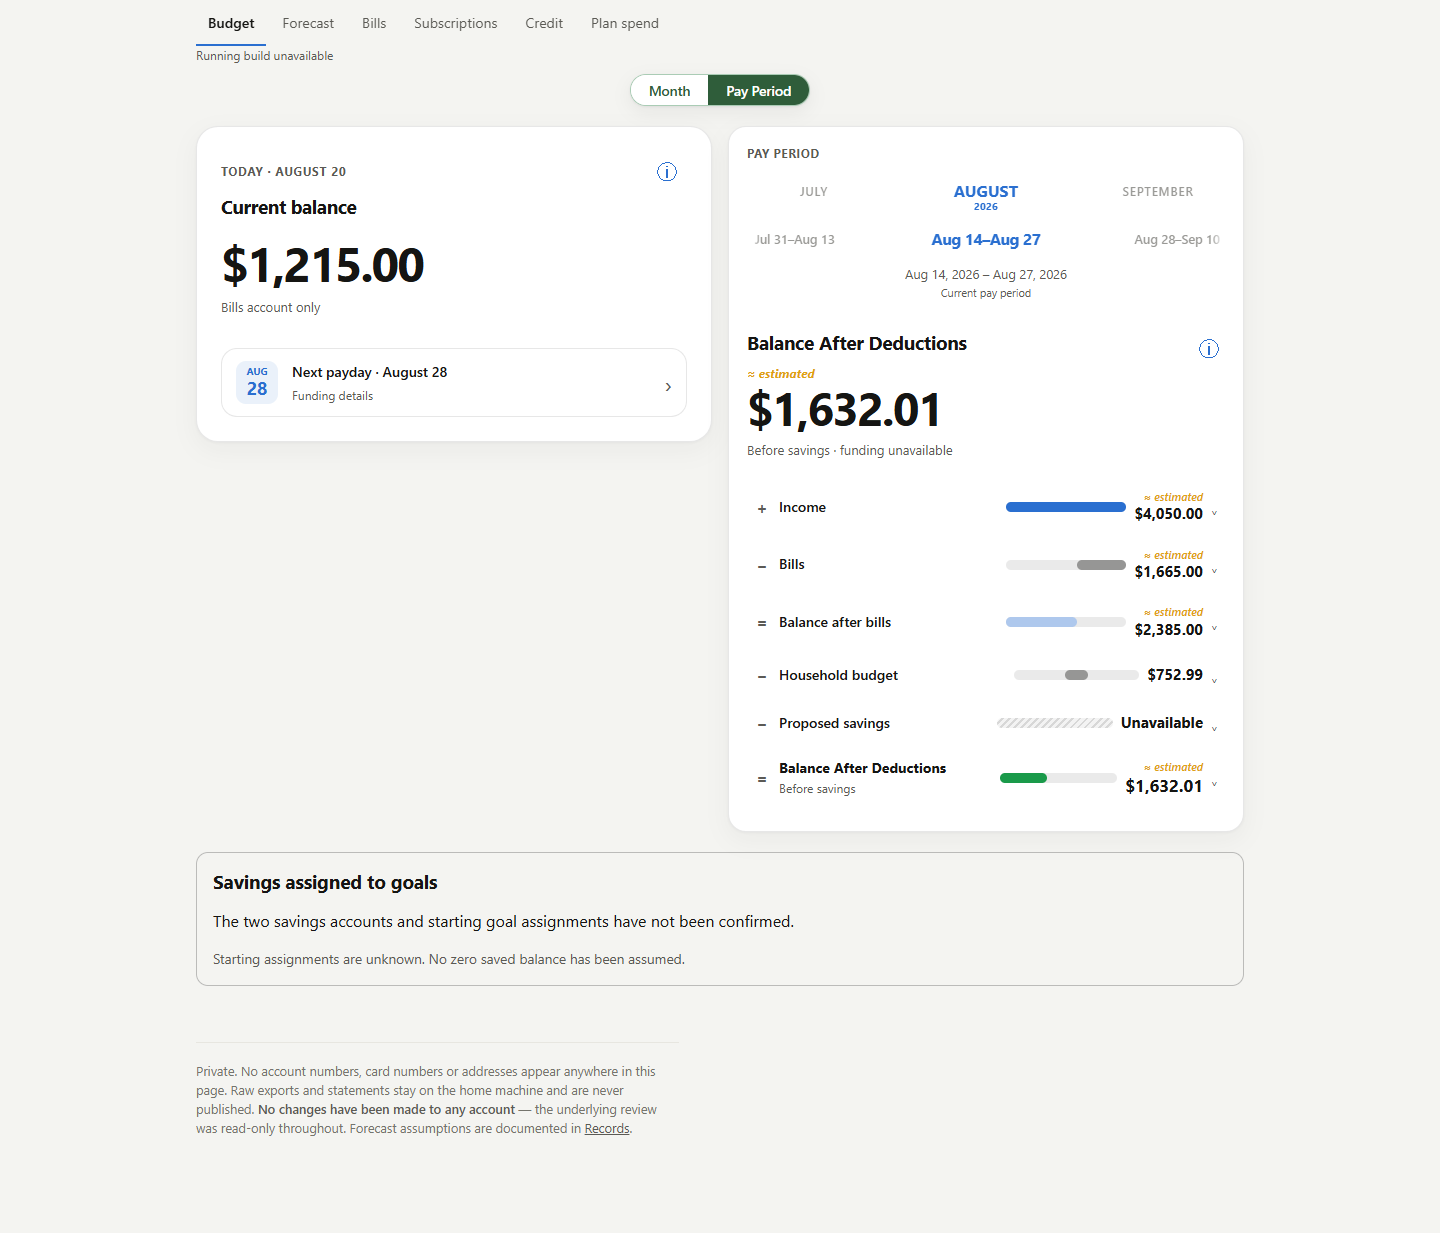
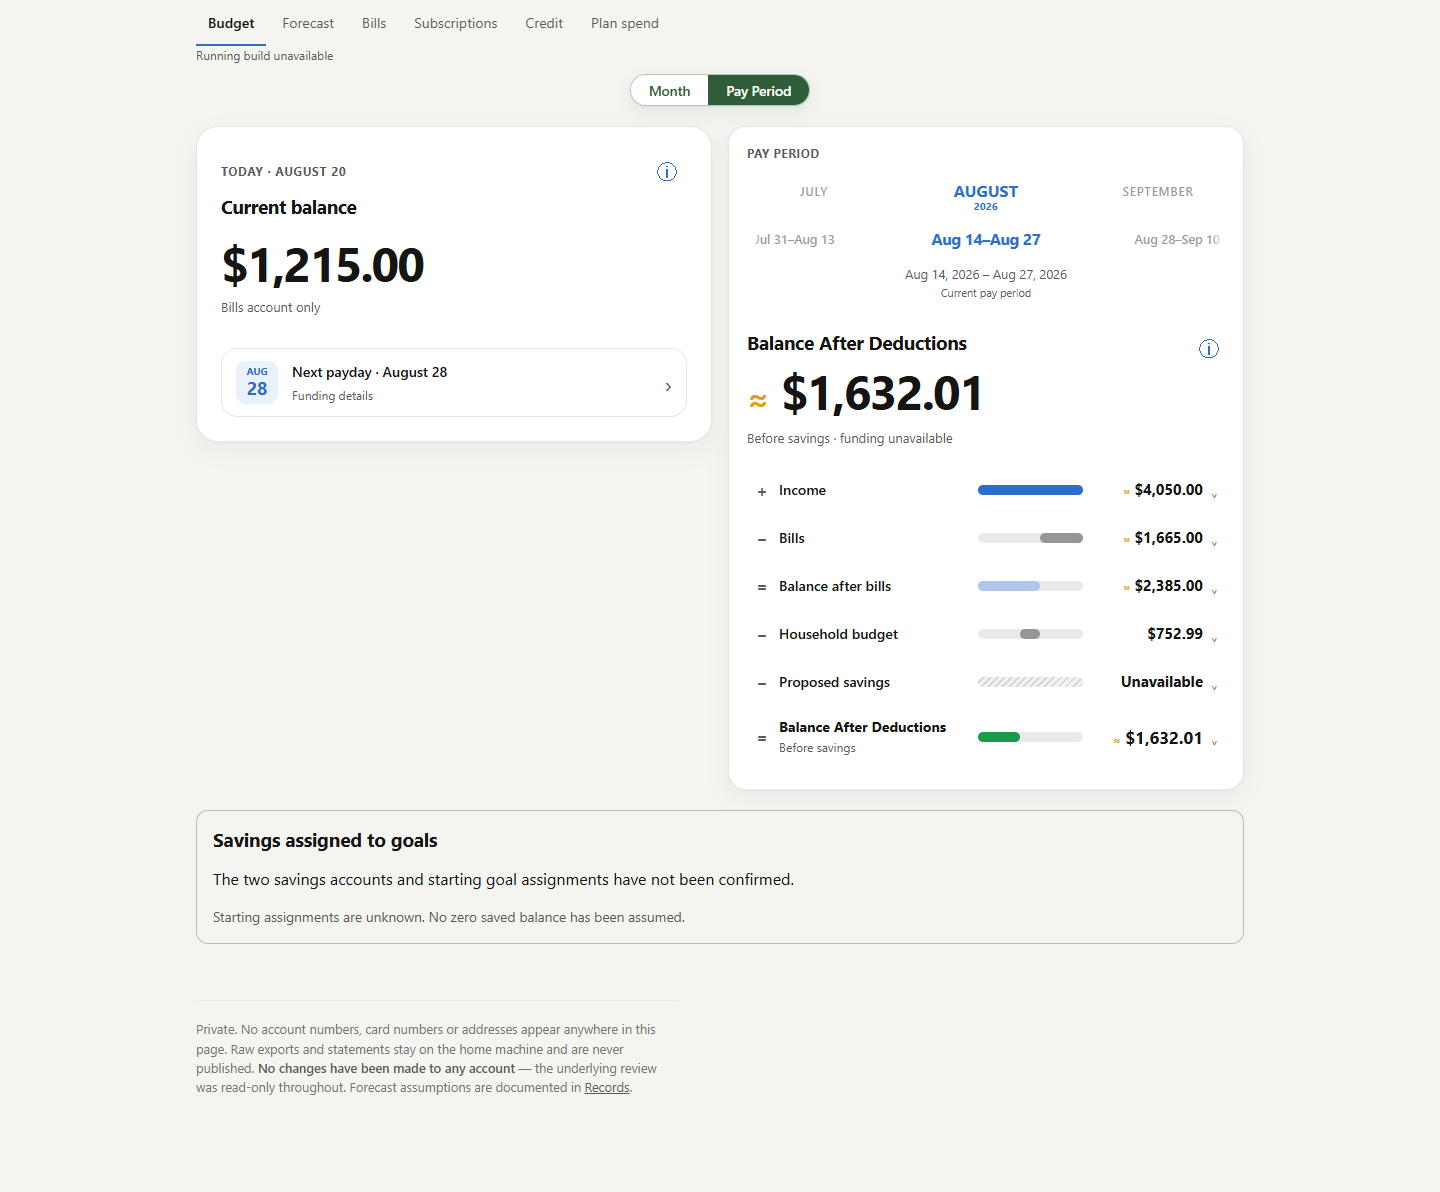
Preserve protection scope and verify compact Budget across narrow and missing states

diff --git a/public/plan.js b/public/plan.js
@@ -5296,6 +5296,11 @@ function budgetTodayCashCardHtml(ctx) {
     <span><strong>${nextDate > asOf ? 'Next payday' : 'Payday plan'} · ${escape(fmtDateLong(nextDate))}</strong><small>Funding details</small></span><span aria-hidden="true">›</span>
   </button>` : '';
   const evidenceOpen = paydayDisclosuresOpen.has('today-evidence');
+  // Incumbent Prepare Ahead publication: this is current protection left
+  // after obligations/essentials, not a newly calculated period carryover.
+  const protection = alloc.protectedPath;
+  const protectionKnown = protection?.status === 'calculated' && strict(protection.allocated) && protection.allocated >= 0;
+  const keep = `<div class="budget-cash-keep" data-budget-cash-keep><span>Keep for later</span><strong>${print(protectionKnown ? protection.allocated : null, protectionKnown ? 'calculated' : 'unavailable')}</strong><small>After bills &amp; essentials · across chequing</small></div>`;
   return `<div class="budget-today-cash" data-budget-today-cash data-live-current-balance>
     <header><p class="budget-cash-eyebrow">Today${asOf ? ' · ' + escape(fmtDateLong(asOf)) : ''}</p>
       <button type="button" class="budget-cash-how" data-budget-cash-how aria-controls="budget-today-evidence" aria-expanded="${evidenceOpen}"><span aria-hidden="true">ⓘ</span><span class="budget-cash-sr">Current balance and funding details</span></button><h2>Current balance</h2></header>
@@ -5305,6 +5310,8 @@ function budgetTodayCashCardHtml(ctx) {
     <section class="budget-today-evidence" id="budget-today-evidence" data-budget-today-evidence aria-label="Current balance and funding evidence"${evidenceOpen ? '' : ' hidden'}>
       <button type="button" class="budget-cash-back" data-budget-cash-back>‹ Back to overview</button>
       <div class="budget-cash-plan" data-budget-cash-detail><h3>Cash needed${today?.currentThrough ? " through " + escape(fmtDate(today.currentThrough)) : ""}</h3><p class="budget-cash-plan-scope">Across chequing accounts</p>${chart}${legend}${ready ? status : ""}</div>
+      ${keep}
+      <p>This is the current allocation's future cash protection after bills and essential spending. It is not a Bills-account-only balance or the selected period's required carryover.</p>
       ${publication?.note ? `<p>${escape(publication.note)}</p>` : ''}
       <p>This funding plan uses both chequing accounts. Cash needed protects remaining bills, household spending and the existing floor. Available to fund is capacity, separate from the proposed contribution for upcoming costs. Savings and credit are excluded.</p>
       ${ready && strict(today.futureIncomeThisPeriod) ? `<p>Future receipts in this period: ${print(today.futureIncomeThisPeriod, today.trust)}. These are not cash available now.</p>` : ''}

diff --git a/test/test-budget-surface.js b/test/test-budget-surface.js
@@ -244,6 +244,22 @@ const currentHero = /data-budget-cash-hero[\s\S]*?<\/p>/.exec(html)?.[0] || '';
 ok(currentHero.includes(money(EXPECT.billsAccount)) && !currentHero.includes(money(EXPECT.available)),
   'the prominent Current balance does not aggregate daily-spending cash');
 ok(/data-budget-today-evidence[^>]* hidden/.test(html), 'current-position explanations and instructions start folded');
+const currentProtection = p.context.__ctx.advice.paydayAllocation.protectedPath;
+const keepHtml = /data-budget-cash-keep[\s\S]*?<\/div>/.exec(html)?.[0] || '';
+ok(currentProtection.status === 'calculated' && currentProtection.allocated > 300
+  && keepHtml.includes(money(currentProtection.allocated)) && /After bills &amp; essentials/.test(keepHtml),
+  'Keep republishes current Forecast protection, including future needs beyond the cash floor; it never substitutes the floor');
+// Publication-boundary identity proof, independent of the detail-line amount.
+// Engine correctness is independently cash-walk reconciled in test-prepare-ahead.
+const stampedKeep = p.rerender("__ctx.advice.paydayAllocation.protectedPath = { status: 'calculated', allocated: 456.78 }; __ctx.advice.paydayAllocation.lines = [{ kind: 'future-path', amount: 9999 }]");
+const stampedKeepHtml = /data-budget-cash-keep[\s\S]*?<\/div>/.exec(stampedKeep)?.[0] || '';
+ok(stampedKeepHtml.includes('$456.78') && !/300\.00|9999|9,999/.test(stampedKeepHtml),
+  'Keep uses the authoritative protected-path publication, independently of the floor or incompatible detail-line amounts');
+const missingProtection = p.rerender("__ctx.advice.paydayAllocation.protectedPath = { status: 'unavailable', allocated: null }");
+ok(/data-budget-cash-keep[\s\S]*?Unavailable/.test(missingProtection)
+  && !/data-budget-cash-keep[\s\S]*?<\/div>/.exec(missingProtection)?.[0].includes('$0.00'),
+  'unavailable protection stays unavailable, without a zero or cash-floor substitute');
+p.render(fx.served());
 ok(section(html, 'today').indexOf('data-budget-cash-detail') > section(html, 'today').indexOf('data-budget-today-evidence'),
   'household cash breakdown stays in the info disclosure, outside the permanent overview');
 ok(/class="budget-period-info"[\s\S]*data-from-today-proposal[\s\S]*<\/details>/.test(section(html, 'period')),

diff --git a/test/browser-budget-v3-period.js b/test/browser-budget-v3-period.js
@@ -63,6 +63,7 @@ async function geometry(page) {
       assert.equal(await page.locator('[data-budget-today-evidence]').isVisible(), false);
       assert.equal(await page.locator('[data-budget-cash-answer]').isVisible(), false);
       assert.equal(await page.locator('[data-budget-cash-detail]').isVisible(), false);
+      assert.equal(await page.locator('[data-budget-cash-keep]').isVisible(), false);
       assert.equal(await page.locator('[data-from-today-proposal]').isVisible(), false);
       assert.equal(await page.locator('.budget-surface-today').evaluate(el => getComputedStyle(el).position), 'static');
       await page.screenshot({ path: path.join(screenshots, `current-${width}.png`), fullPage: true });
@@ -86,6 +87,8 @@ async function geometry(page) {
       await how.focus(); await page.keyboard.press('Enter');
       assert.equal(await page.locator('[data-budget-today-evidence]').isVisible(), true);
       assert.equal(await page.locator('[data-budget-cash-detail]').isVisible(), true);
+      assert.equal(await page.locator('[data-budget-cash-keep]').isVisible(), true);
+      assert.match(await page.locator('[data-budget-cash-keep]').innerText(), /After bills & essentials.*across chequing/);
       assert.match(await page.locator('[data-budget-cash-answer]').innerText(), /873\.50[\s\S]*501\.50/);
       assert.match(await page.locator('.budget-cash-plan-scope').innerText(), /Across chequing accounts/);
       await page.locator('[data-budget-cash-detail]').screenshot({ path: path.join(screenshots, `today-details-${width}.png`) });

diff --git a/public/budget-surface.css b/public/budget-surface.css
@@ -187,6 +187,9 @@
 .budget-cash-hero { font-size:clamp(34px,4vw,48px); font-weight:720; line-height:1.08; letter-spacing:-.04em; margin:0; font-variant-numeric:tabular-nums; }
 .budget-cash-hero[data-sign="negative"] { color:var(--critical); }
 .budget-cash-sub { margin:8px 0 26px; color:var(--text-secondary); font-size:13px; }
+.budget-cash-keep { display:grid; grid-template-columns:minmax(0,1fr) auto; gap:6px 12px; padding-top:16px; border-top:1px solid var(--border); font-size:14px; }
+.budget-cash-keep strong { font-variant-numeric:tabular-nums; }
+.budget-cash-keep small { grid-column:1 / -1; font-size:11px; color:var(--text-secondary); }
 .budget-cash-plan h3 { font-size:14px; font-weight:650; margin:0; }
 .budget-cash-plan { margin:8px 0 20px; }
 .budget-cash-plan-scope { color:var(--text-secondary); font-size:12px; margin:4px 0 14px; }

diff --git a/docs/design/budget-v3-compact-overview/README.md b/docs/design/budget-v3-compact-overview/README.md
@@ -1,12 +1,10 @@
 # Budget v3: compact Current balance and evidence
 
-Unpublished next-slice checkpoint on `agent/budget-v3-today-cash`. It currently
-starts at the original #485 slice, `e5316191d869c01bc06e6129a9faacd709ce6ea6`.
-The parent must confirm #485 has merged before this branch rebases onto fresh
-main and publishes a draft PR. The final signed/zero-income repairs from #485
-must be inherited and verified during that rebase; this checkpoint does not
-claim the older base is a final merge candidate. No writes to #485 accompany
-this work.
+Second slice on `agent/budget-v3-today-cash`, rebased onto actual merged main
+`5178c0cf1f5899b6a5d510a4969719793d02f3e1` after the parent confirmed #485's
+merge. Its final signed/zero-income repairs and all regressions are inherited.
+No writes to #485 accompany this work. The complete #480 visual target remains
+unfinished; this is the compact Current-balance/evidence outcome.
 
 The actual approved #480 desktop/mobile captures remain the reference. Owner
 clarifications narrow Current balance to the Bills account and request compact
@@ -34,6 +32,17 @@ to observed cash or interprets capacity as a contribution. The next-payday link
 opens the exact existing first schedule row, with the correct date. No buffer,
 canonical assignment, household amount or engine rule changes.
 
+The existing `paydayAllocation.protectedPath.allocated` also remains available
+in info as **Keep for later**, qualified **After bills & essentials · across
+chequing** and only when its own status is calculated. Missing protection is
+unavailable, never replaced by the floor or zero. This field is the current
+pooled allocation's future-walk protection; it is not a selected-period
+required carryover or a Bills-account-only amount. It is deliberately excluded
+from the default Current-balance card so the UI cannot imply a subtraction
+between different scopes. A simple default required-carryover line needs a
+matching Forecast publication seam; that is an outstanding financial boundary
+for parent review. No new carryover calculation is introduced in the page.
+
 The independent observation/overlay fixture publishes Bills cash 1,215,
 spending cash 160, remaining bills 265, and remaining household
 `(450 - 308.55) + (160 - 74.20) + (120 - 38.75) = 308.50`.
@@ -42,6 +51,13 @@ Required operating cash is `265 + 308.50 + 300 = 873.50`; funding capacity is
 capacity. A second invented observation has spending cash -50 and savings
 8,000: Current balance remains 1,215 while household transactions and remaining
 needs stay present. Nothing is copied or scaled from the real household.
+
+An independent grocery-overrun observation adds 200: groceries become
+`212.40 + 96.15 + 200 = 508.55`, above the 450 target. The published household
+reserve becomes `508.55 + 160 + 120 + 22.99 = 811.54`; the final balance is
+`4,050 - 1,665 - 811.54 = 1,573.46`. The 58.55 overrun remains in the reserve and
+reduces the result. Remaining household needs are `0 + 85.80 + 81.25 = 167.05`.
+The transaction evidence, Bills-only balance and published scope remain intact.
 
 ## Interaction and visual evidence
 
@@ -58,11 +74,21 @@ of the mobile dock. Optional motion respects reduced-motion preferences.
 | 390px | [Overview](current-390.png) | [Detail](today-details-390.png) |
 | 320px | [Overview](current-320.png) | [Detail](today-details-320.png) |
 
+Actual approved-reference comparisons for the compact period card:
+[1440px](comparison-1440.png), [390px](comparison-390.png),
+[320px](comparison-320.png). Remaining header/navigation differences remain
+visible in the full overview captures and are not claimed complete.
+Additional narrow-mobile proof: [unknown assignments](withheld-320.png),
+[negative spending account](negative-spending-320.png),
+[observed grocery overrun](overspending-320.png).
+
 The captures load production `index.html`, App.boot, Forecast and the active
 Budget renderer. All requests are intercepted with independent invented data;
 external traffic is aborted. Active financial-contract and actual-browser
-checks pass for this checkpoint at 1440/390/320px. Final exact-head suites and
-new captures remain required after rebasing onto the merged #485 main.
+checks cover 1440/390/320px, signed deficits, overflow, zero income, missing
+evidence, exact trigger focus return and the independently reconciled overrun.
+The 320px money column accommodates the inline estimate marker even for large
+signed amounts. Every row keeps the same chart origin and width.
 
 ## Remaining differences
 
@@ -70,15 +96,16 @@ The full visual target is incomplete. The existing finite checklist in
 [the preceding slice](../budget-v3-period-hierarchy/README.md) still governs
 closure:
 
-1. Inherit and verify the final signed waterfall repair after fresh-main rebase.
-2. Move header/period selection above the overview, and implement the approved
+1. Move header/period selection above the overview, and implement the approved
    day progress and Overview/Spending/Bills/Upcoming costs navigation.
-3. Complete the unified Today/next-payday funding presentation using the shared
+2. Complete the unified Today/next-payday funding presentation using the shared
    publications and preserve scope/trust for all shortfall and withheld states.
-4. Add Worth a look, real category bars and grouped bill drilldowns.
-5. Replace native inline evidence with the shared accessible detail-sheet shell
+   Resolve the default required-carryover publication seam without reassigning
+   the pooled current-protection amount to the Bills-only balance.
+3. Add Worth a look, real category bars and grouped bill drilldowns.
+4. Replace native inline evidence with the shared accessible detail-sheet shell
    only after financial/evidence parity and focus-trap/restoration proof.
-6. Finish Month layout/navigation, trust vocabulary and dark/mobile polish,
+5. Finish Month layout/navigation, trust vocabulary and dark/mobile polish,
    comparing actual screenshots side by side with #480.
 
 No demo toggle or mockup sample figures become production controls or data.
